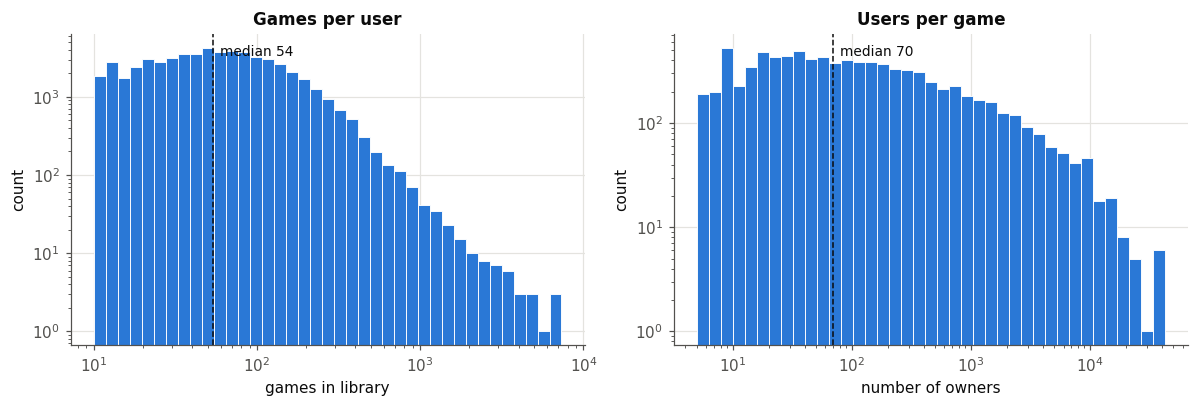
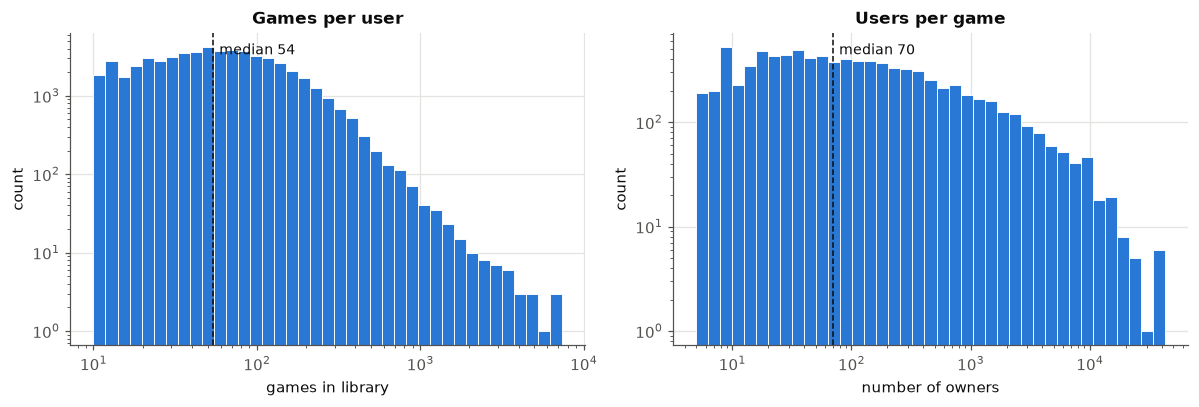
Add evaluate() with Recall@k, NDCG@10 and AUC
Section 1.1: batched full-catalog ranking with masking of owned games,
deterministic tie handling, per-user metrics, a fixed user subset helper
for early stopping, and a hand-checked toy example. Document the
interface in the README.

diff --git a/README.md b/README.md
@@ -29,7 +29,8 @@ All code lives in `workbook.ipynb`, organized by the five graded sections. Secti
 - `data/train.parquet`, `data/val.parquet`, `data/test.parquet`: `user_id` (int), `item_id` (int), `playtime_hours` (float), with contiguous IDs.
 - `data/meta.json`: `num_users`, `num_items`, `seed`, ID mappings.
 - Every model has `score_users(user_ids)` returning a `(len(user_ids), num_items)` NumPy array of scores.
-- `evaluate(model, eval_df, mask_dfs, num_items)` in Section 1.1 handles masking, ranking and metrics for all models.
+- `evaluate(model, eval_df, mask_dfs, num_users, num_items)` in Section 1.1 handles masking, ranking and metrics for all models. Pass `mask_dfs=[train_df]` for validation and `[train_df, val_df]` for test. It returns a dict with `recall@10`, `recall@20`, `ndcg@10`, `auc` and `n_users`.
+- For per-epoch early stopping, evaluate a fixed user subset: `evaluate(model, val_df, [train_df], num_users, num_items, user_ids=sample_eval_users(val_df, 5000))`.
 
 ## Submission
 
